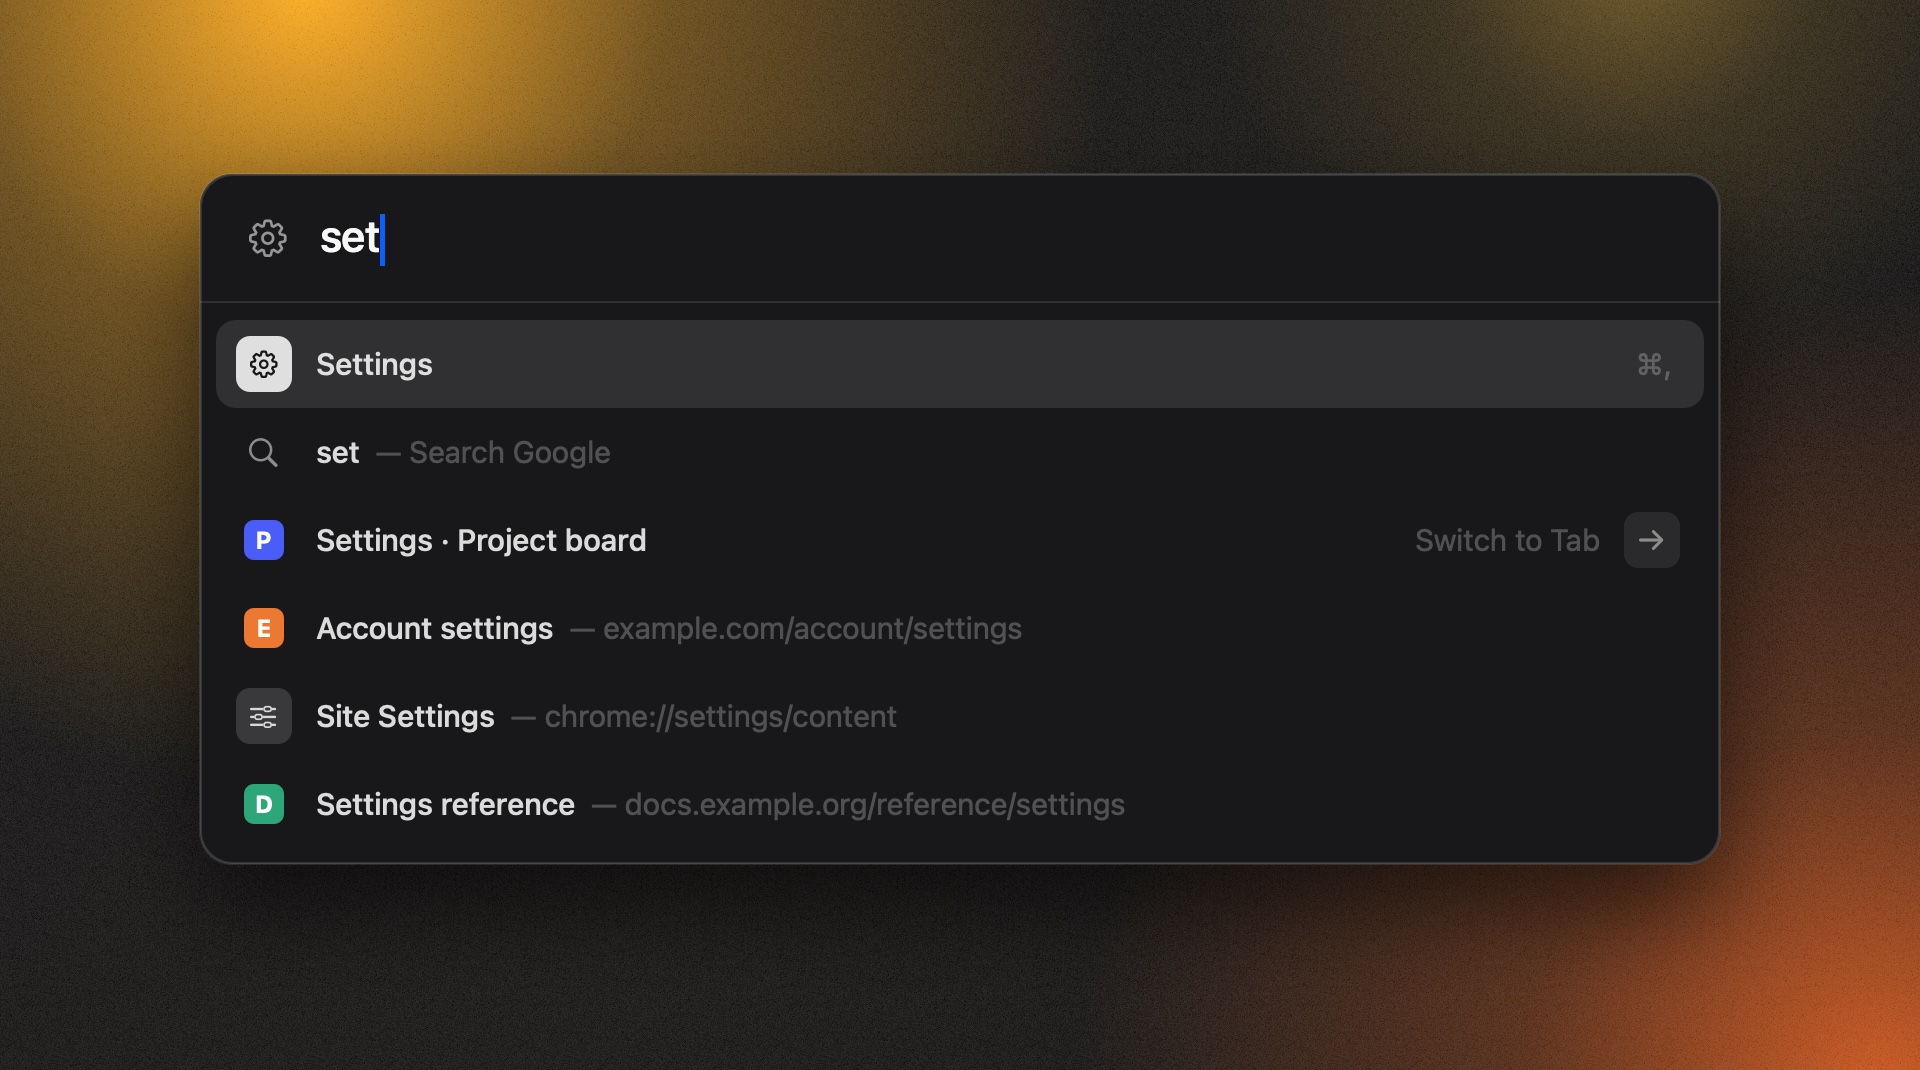
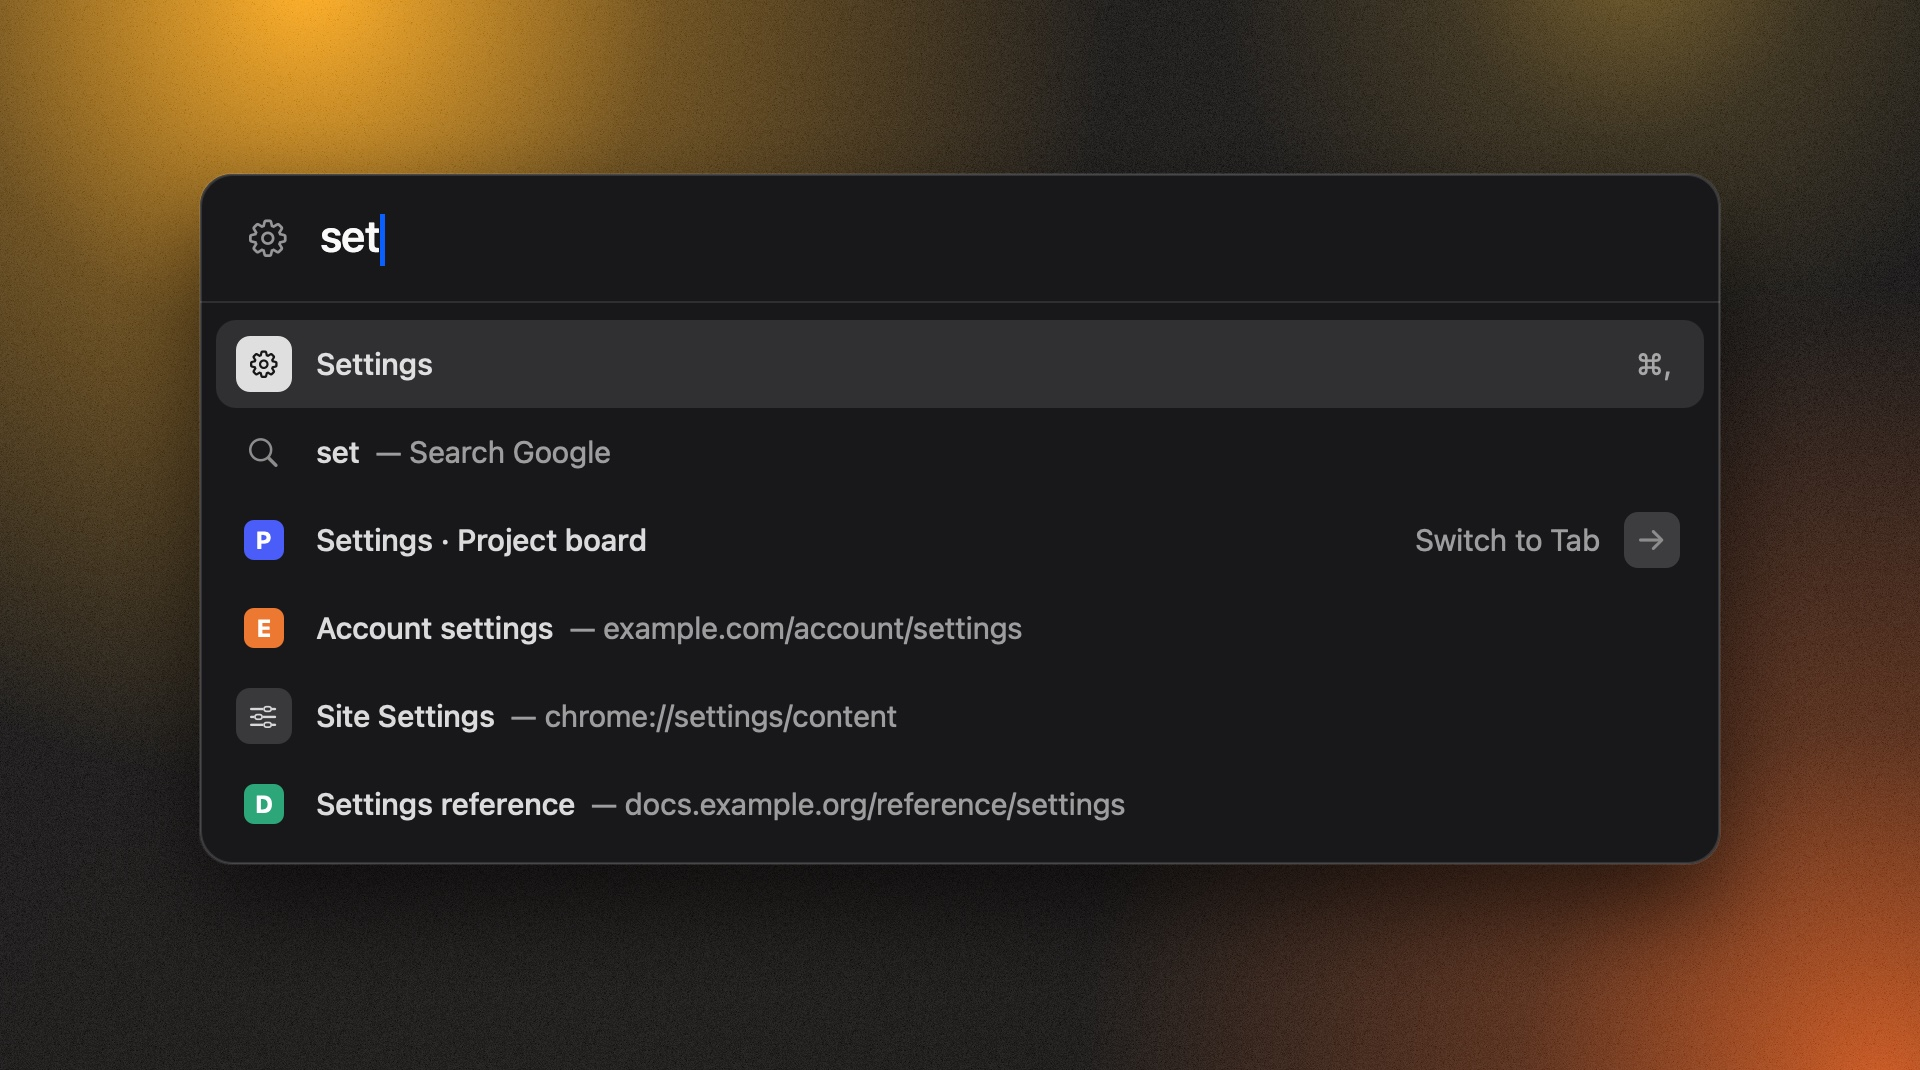
Rank most-visited sites first, raise command bar contrast, clip Settings pane below the title bar
- Command bar: history weight is log-scaled and uncapped, so a site visited
  thousands of times leads short queries ("g" -> Google). Commands and pages
  still win once 3+ letters of their name are typed; open tabs inherit their
  site's history weight and show as Switch to Tab.
- Command bar: secondary text and the inactive Switch to Tab chip use a colour
  tuned to ~6.4:1 contrast in dark and light mode (was ~2:1), and the panel
  uses a light material in light mode.
- Settings pane: the scroll area ends at the title bar like Dia's own panes,
  so content no longer scrolls under it.

diff --git a/tools/selftest-polish.m b/tools/selftest-polish.m
@@ -1,0 +1,79 @@
+// Dev tool: checks the Settings title bar fill on scroll and the command bar's
+// ranking for "g". Output: /tmp/daypatch-polish.txt and /tmp/daypatch-polish-*.png.
+#import <AppKit/AppKit.h>
+#include <dlfcn.h>
+
+static NSMutableString *out;
+static void after(double s, dispatch_block_t b) { dispatch_after(dispatch_time(DISPATCH_TIME_NOW, (int64_t)(s * NSEC_PER_SEC)), dispatch_get_main_queue(), b); }
+static NSView *find(NSView *v, NSString *n) { if ([NSStringFromClass(v.class) containsString:n]) return v; for (NSView *s in v.subviews) { NSView *h = find(s, n); if (h) return h; } return nil; }
+static void snap(NSWindow *w, NSString *p) {
+    NSView *v = w.contentView.superview ?: w.contentView;
+    NSBitmapImageRep *r = [v bitmapImageRepForCachingDisplayInRect:v.bounds]; [v cacheDisplayInRect:v.bounds toBitmapImageRep:r];
+    [[r representationUsingType:NSBitmapImageFileTypePNG properties:@{}] writeToFile:p atomically:YES];
+}
+static NSString *titlebarState(NSWindow *w) {
+    // Where the DayPatch pane's scroll area starts vs. where the title bar ends (window coords).
+    NSView *sv = find(find(w.contentView, @"ADPrefsPane"), @"NSScrollView");
+    if (sv) return [NSString stringWithFormat:@"scroll top=%.0f titlebar bottom=%.0f", NSMaxY([sv convertRect:sv.bounds toView:nil]), NSMaxY(w.contentLayoutRect)];
+    NSMutableArray *states = [NSMutableArray array];
+    NSMutableArray *q = [NSMutableArray arrayWithObject:w.contentView.superview];
+    while (q.count) { NSView *v = q.lastObject; [q removeLastObject];
+        if ([NSStringFromClass(v.class) isEqualToString:@"NSTitlebarBackgroundView"]) [states addObject:[NSString stringWithFormat:@"x=%.0f:%@", NSMinX(v.frame), v.hidden ? @"hidden" : @"shown"]];
+        [q addObjectsFromArray:v.subviews]; }
+    return [states componentsJoinedByString:@" "];
+}
+
+__attribute__((constructor)) static void init(void) {
+    out = [NSMutableString string];
+    after(9, ^{
+        for (NSMenuItem *i in NSApp.mainMenu.itemArray.firstObject.submenu.itemArray)
+            if ([i.keyEquivalent isEqualToString:@","]) [NSApp sendAction:i.action to:i.target from:i];
+        after(2, ^{
+            NSWindow *p = nil;
+            for (NSWindow *x in NSApp.windows) if ([NSStringFromClass(x.class) containsString:@"Preferences"] && x.isVisible) p = x;
+            NSTableView *t = (NSTableView *)find(p.contentView, @"NSTableView");
+            [t selectRowIndexes:[NSIndexSet indexSetWithIndex:t.numberOfRows - 1] byExtendingSelection:NO];
+            after(1, ^{
+                NSScrollView *sv = (NSScrollView *)find(find(p.contentView, @"ADPrefsPane"), @"NSScrollView");
+                [out appendFormat:@"top:      %@\n", titlebarState(p)];
+                snap(p, @"/tmp/daypatch-polish-top.png");
+                [sv.contentView scrollToPoint:NSMakePoint(0, 220)]; [sv reflectScrolledClipView:sv.contentView];
+                after(0.6, ^{
+                    [out appendFormat:@"scrolled: %@\n", titlebarState(p)];
+                    snap(p, @"/tmp/daypatch-polish-scrolled.png");
+                    [sv.contentView scrollToPoint:NSMakePoint(0, -sv.contentView.contentInsets.top)]; [sv reflectScrolledClipView:sv.contentView];
+                    after(0.6, ^{
+                        [out appendFormat:@"back top: %@\n", titlebarState(p)];
+                        [sv.contentView scrollToPoint:NSMakePoint(0, 220)]; [sv reflectScrolledClipView:sv.contentView];
+                        after(0.4, ^{
+                            [t selectRowIndexes:[NSIndexSet indexSetWithIndex:1] byExtendingSelection:NO];
+                            after(0.8, ^{
+                                [out appendFormat:@"left pane while scrolled: %@\n", titlebarState(p)];
+                                [p close];
+                                // Command bar: "g".
+                                NSWindow *w = nil;
+                                for (NSWindow *x in NSApp.windows) if ([NSStringFromClass(x.class) isEqualToString:@"Window.PlatformWindow"] && x.isVisible) w = x;
+                                [NSApp activateIgnoringOtherApps:YES]; [w makeKeyAndOrderFront:nil];
+                                ((BOOL (*)(NSWindow *, BOOL))dlsym(RTLD_DEFAULT, "ADCommandBarShow"))(w, YES);
+                                after(0.8, ^{
+                                    id bar = [NSClassFromString(@"ADCommandBar") performSelector:@selector(shared)];
+                                    NSTextView *ed = (NSTextView *)[[bar valueForKey:@"field"] currentEditor];
+                                    [ed insertText:@"g"];
+                                    after(1.5, ^{
+                                        [out appendFormat:@"command bar 'g': field=\"%@\"\n", ed.string];
+                                        NSArray *kinds = @[@"search", @"url", @"command", @"page", @"tab", @"bookmark", @"history"];
+                                        int n = 0;
+                                        for (id it in [[bar valueForKey:@"results"] valueForKey:@"items"])
+                                            if (n++ < 4) [out appendFormat:@"   %@  %@ — %@\n", kinds[[[it valueForKey:@"kind"] integerValue]], [it valueForKey:@"title"], [it valueForKey:@"url"]];
+                                        snap([bar valueForKey:@"panel"], @"/tmp/daypatch-polish-bar.png");
+                                        [out writeToFile:@"/tmp/daypatch-polish.txt" atomically:YES encoding:NSUTF8StringEncoding error:nil];
+                                    });
+                                });
+                            });
+                        });
+                    });
+                });
+            });
+        });
+    });
+}

diff --git a/src/ADCommandBar.m b/src/ADCommandBar.m
@@ -20,6 +20,10 @@ static NSColor *dyn(CGFloat dw, CGFloat da, CGFloat lw, CGFloat la) {
     }];
 }
 
+/// Secondary text in the bar (URLs, "— Search Google", shortcuts, inactive "Switch to Tab").
+/// Tuned to ~6.4:1 contrast on the bar in both dark and light mode (macOS's tertiary label was ~2:1).
+static NSColor *detailColor(void) { return dyn(1, 0.58, 0, 0.64); }
+
 #pragma mark - Results list
 
 @class ADResultsView;
@@ -112,19 +116,19 @@ static NSColor *dyn(CGFloat dw, CGFloat da, CGFloat lw, CGFloat la) {
             // "Switch to Tab" + arrow chip; bright when selected.
             BOOL sel = r == self.selected;
             NSRect chip = NSMakeRect(maxX - 28 + 4, NSMidY(row) - 14, 28, 28);
-            [(sel ? NSColor.labelColor : dyn(1, 0.08, 0, 0.06)) setFill];
+            [(sel ? NSColor.labelColor : dyn(1, 0.16, 0, 0.09)) setFill];
             [[NSBezierPath bezierPathWithRoundedRect:chip xRadius:7 yRadius:7] fill];
             NSImage *arrow = [[NSImage imageWithSystemSymbolName:@"arrow.right" accessibilityDescription:@"Switch to Tab"]
                               imageWithSymbolConfiguration:[NSImageSymbolConfiguration configurationWithPointSize:13 weight:NSFontWeightSemibold]];
             [self drawSymbol:arrow in:chip tint:sel ? NSColor.windowBackgroundColor : NSColor.secondaryLabelColor];
             NSDictionary *ra = @{NSFontAttributeName: sel ? titleFont : detailFont,
-                                 NSForegroundColorAttributeName: sel ? NSColor.labelColor : NSColor.tertiaryLabelColor};
+                                 NSForegroundColorAttributeName: sel ? NSColor.labelColor : detailColor()};
             NSSize rs = [it.detail sizeWithAttributes:ra];
             [it.detail drawAtPoint:NSMakePoint(NSMinX(chip) - 12 - rs.width, NSMidY(row) - rs.height / 2) withAttributes:ra];
             maxX = NSMinX(chip) - 12 - rs.width - 16;
         }
         if (right.length) {
-            NSDictionary *ra = @{NSFontAttributeName: detailFont, NSForegroundColorAttributeName: NSColor.tertiaryLabelColor};
+            NSDictionary *ra = @{NSFontAttributeName: detailFont, NSForegroundColorAttributeName: detailColor()};
             NSSize rs = [right sizeWithAttributes:ra];
             [right drawAtPoint:NSMakePoint(maxX - rs.width, NSMidY(row) - rs.height / 2) withAttributes:ra];
             maxX -= rs.width + 16;
@@ -139,7 +143,7 @@ static NSColor *dyn(CGFloat dw, CGFloat da, CGFloat lw, CGFloat la) {
         if (it.kind == ADItemHistory || it.kind == ADItemBookmark || it.kind == ADItemPage) detail = [self prettyURL:it.url];
         else if (it.kind == ADItemSearch || it.kind == ADItemURL) detail = it.detail;
         if (detail.length) {
-            NSDictionary *da = @{NSFontAttributeName: detailFont, NSForegroundColorAttributeName: NSColor.tertiaryLabelColor, NSParagraphStyleAttributeName: trunc};
+            NSDictionary *da = @{NSFontAttributeName: detailFont, NSForegroundColorAttributeName: detailColor(), NSParagraphStyleAttributeName: trunc};
             NSString *d = [@"— " stringByAppendingString:detail];
             NSSize ds = [d sizeWithAttributes:da];
             CGFloat dx = x + titleW + 8;
@@ -265,6 +269,10 @@ static NSColor *dyn(CGFloat dw, CGFloat da, CGFloat lw, CGFloat la) {
     self.host = window;
     self.mode = mode;
     self.panel.appearance = window.effectiveAppearance;
+    // HUD material is always dark; use the light popover material in light mode so text stays readable.
+    BOOL dark = [[window.effectiveAppearance bestMatchFromAppearancesWithNames:@[NSAppearanceNameAqua, NSAppearanceNameDarkAqua]]
+                 isEqualToString:NSAppearanceNameDarkAqua];
+    self.background.material = dark ? NSVisualEffectMaterialHUDWindow : NSVisualEffectMaterialPopover;
     [self.background.effectiveAppearance performAsCurrentDrawingAppearance:^{
         self.background.layer.borderColor = dyn(1, 0.12, 0, 0.10).CGColor;
     }];

diff --git a/src/ADCommandSources.m b/src/ADCommandSources.m
@@ -291,7 +291,7 @@ static NSString *likeEscape(NSString *s) {
         [where appendFormat:@" AND (url LIKE ?%lu ESCAPE '\\' OR title LIKE ?%lu ESCAPE '\\')", (unsigned long)args.count, (unsigned long)args.count];
     }
     NSString *sql = [NSString stringWithFormat:@"SELECT url, title, visit_count, typed_count, last_visit_time FROM urls WHERE %@ "
-                     "ORDER BY typed_count DESC, visit_count DESC, last_visit_time DESC LIMIT 60", where];
+                     "ORDER BY typed_count * 2 + visit_count DESC, last_visit_time DESC LIMIT 80", where];
     NSMutableArray *out = [NSMutableArray array];
     // Chromium time: microseconds since 1601-01-01.
     double nowChrome = (NSDate.date.timeIntervalSince1970 + 11644473600.0) * 1e6;
@@ -305,7 +305,9 @@ static NSString *likeEscape(NSString *s) {
         it.symbol = @"globe";
         double visits = sqlite3_column_int(s, 2), typed = sqlite3_column_int(s, 3);
         double ageDays = MAX(0, (nowChrome - sqlite3_column_int64(s, 4)) / 8.64e10);
-        it.frecency = MIN(3.0, log2(visits + 1) * 0.35 + typed * 0.4) + 1.5 / (1 + ageDays / 7.0);
+        // Log-scaled and uncapped, so a site visited thousands of times clearly outranks
+        // one visited dozens of times (typing "g" should give the Google you always use).
+        it.frecency = log2(visits + 1) * 0.6 + log2(typed + 1) * 0.8 + 1.5 / (1 + ageDays / 7.0);
         [out addObject:it];
     }];
     return out;
@@ -334,18 +336,26 @@ static NSString *likeEscape(NSString *s) {
             for (ADItem *it in list) {
                 double m = matchScore(words, it.title, it.kind == ADItemCommand ? nil : it.url);
                 if (m < minMatch) continue;
-                // The bonus grows with how much of the title was typed: "setti" for Settings
-                // earns it, "go" for "Go Back" mostly doesn't.
+                // Commands and pages win when you've clearly started typing their name
+                // (3+ letters, "set" -> Settings); for "g" or "go" your most visited sites lead.
                 double coverage = MIN(1.0, 2.0 * q.length / MAX((NSUInteger)1, it.title.length));
-                it.score = m * weight + it.frecency + (m >= 4 * words.count ? prefixBonus * coverage : 0);
+                BOOL named = m >= 4 * words.count && (it.kind == ADItemTab || q.length >= 3);
+                it.score = m * weight + it.frecency + (named ? prefixBonus * coverage : 0);
                 [all addObject:it];
             }
         };
-        add(commands, 2.5, 1.2, 4.5);
-        add(pages, 2.5, 1.2, 3.0);
+        add(commands, 2.5, 1.2, 15.0);
+        add(pages, 2.5, 1.2, 14.0);
         add(tabs, 0.8, 1.25, 2.5);
         add(bookmarks, 1.0, 1.1, 1.0);
-        add([self historyFor:words], 0.8, 1.0, 0);
+        NSArray<ADItem *> *history = [self historyFor:words];
+        add(history, 0.8, 1.0, 0);
+
+        // A site that's open in a tab is offered as "Switch to Tab", with its history weight.
+        NSMutableDictionary<NSString *, ADItem *> *historyByURL = [NSMutableDictionary dictionary];
+        for (ADItem *h in history) if (h.url) historyByURL[h.url] = h;
+        for (ADItem *t in all)
+            if (t.kind == ADItemTab && historyByURL[t.url]) t.score = MAX(t.score, historyByURL[t.url].score + 0.5);
 
         // De-duplicate URLs: an open tab beats a bookmark beats history.
         [all sortUsingComparator:^NSComparisonResult(ADItem *a, ADItem *b) { return a.score > b.score ? NSOrderedAscending : a.score < b.score ? NSOrderedDescending : NSOrderedSame; }];

diff --git a/src/ADPreferences.m b/src/ADPreferences.m
@@ -49,6 +49,7 @@ static NSColor *dyn(CGFloat darkWhite, CGFloat darkAlpha, CGFloat lightWhite, CG
 @property (nonatomic, strong) NSTextField *blockedLabel;
 @property (nonatomic, strong) NSPopUpButton *rendererPopup;
 @property (nonatomic, strong) NSPopUpButton *commandBarPopup;
+@property (nonatomic, weak) NSScrollView *scroll;
 @property (nonatomic, strong) NSTimer *timer;
 @property (nonatomic, strong) NSMutableDictionary<NSString *, NSSwitch *> *switches;
 @property (nonatomic, strong) NSMutableDictionary<NSString *, NSArray<NSView *> *> *rowsByKey;
@@ -211,14 +212,14 @@ static NSColor *dyn(CGFloat darkWhite, CGFloat darkAlpha, CGFloat lightWhite, CG
     stack.translatesAutoresizingMaskIntoConstraints = NO;
 
     NSScrollView *scroll = [[NSScrollView alloc] initWithFrame:self.bounds];
-    scroll.autoresizingMask = NSViewWidthSizable | NSViewHeightSizable;
     scroll.drawsBackground = NO;
     scroll.hasVerticalScroller = YES;
-    scroll.automaticallyAdjustsContentInsets = YES;  // clears the transparent titlebar
+    scroll.automaticallyAdjustsContentInsets = NO;   // positioned below the title bar in -layout
     ADFlippedView *doc = [[ADFlippedView alloc] initWithFrame:NSZeroRect];
     doc.translatesAutoresizingMaskIntoConstraints = NO;
     scroll.documentView = doc;
     [self addSubview:scroll];
+    _scroll = scroll;
     [doc addSubview:stack];
     [NSLayoutConstraint activateConstraints:@[
         [doc.widthAnchor constraintEqualToAnchor:scroll.contentView.widthAnchor],
@@ -242,6 +243,18 @@ static NSColor *dyn(CGFloat darkWhite, CGFloat darkAlpha, CGFloat lightWhite, CG
 }
 
 - (void)dealloc { [_timer invalidate]; [NSNotificationCenter.defaultCenter removeObserver:self]; }
+
+/// Like Dia's own panes, the scroll area ends at the title bar, so content never
+/// scrolls underneath it.
+- (void)layout {
+    [super layout];
+    NSWindow *w = self.window;
+    CGFloat titlebar = w ? MAX(0, NSHeight(w.frame) - NSMaxY(w.contentLayoutRect)) : 0;
+    NSRect f = self.bounds;
+    f.origin.y += titlebar;            // flipped: the top of the pane
+    f.size.height -= titlebar;
+    if (!NSEqualRects(self.scroll.frame, f)) self.scroll.frame = f;
+}
 
 - (void)updateBlocked {
     self.blockedLabel.stringValue = [NSString stringWithFormat:@"%lu requests blocked since launch. Blocking changes fully apply after restarting Patched Dia.",
